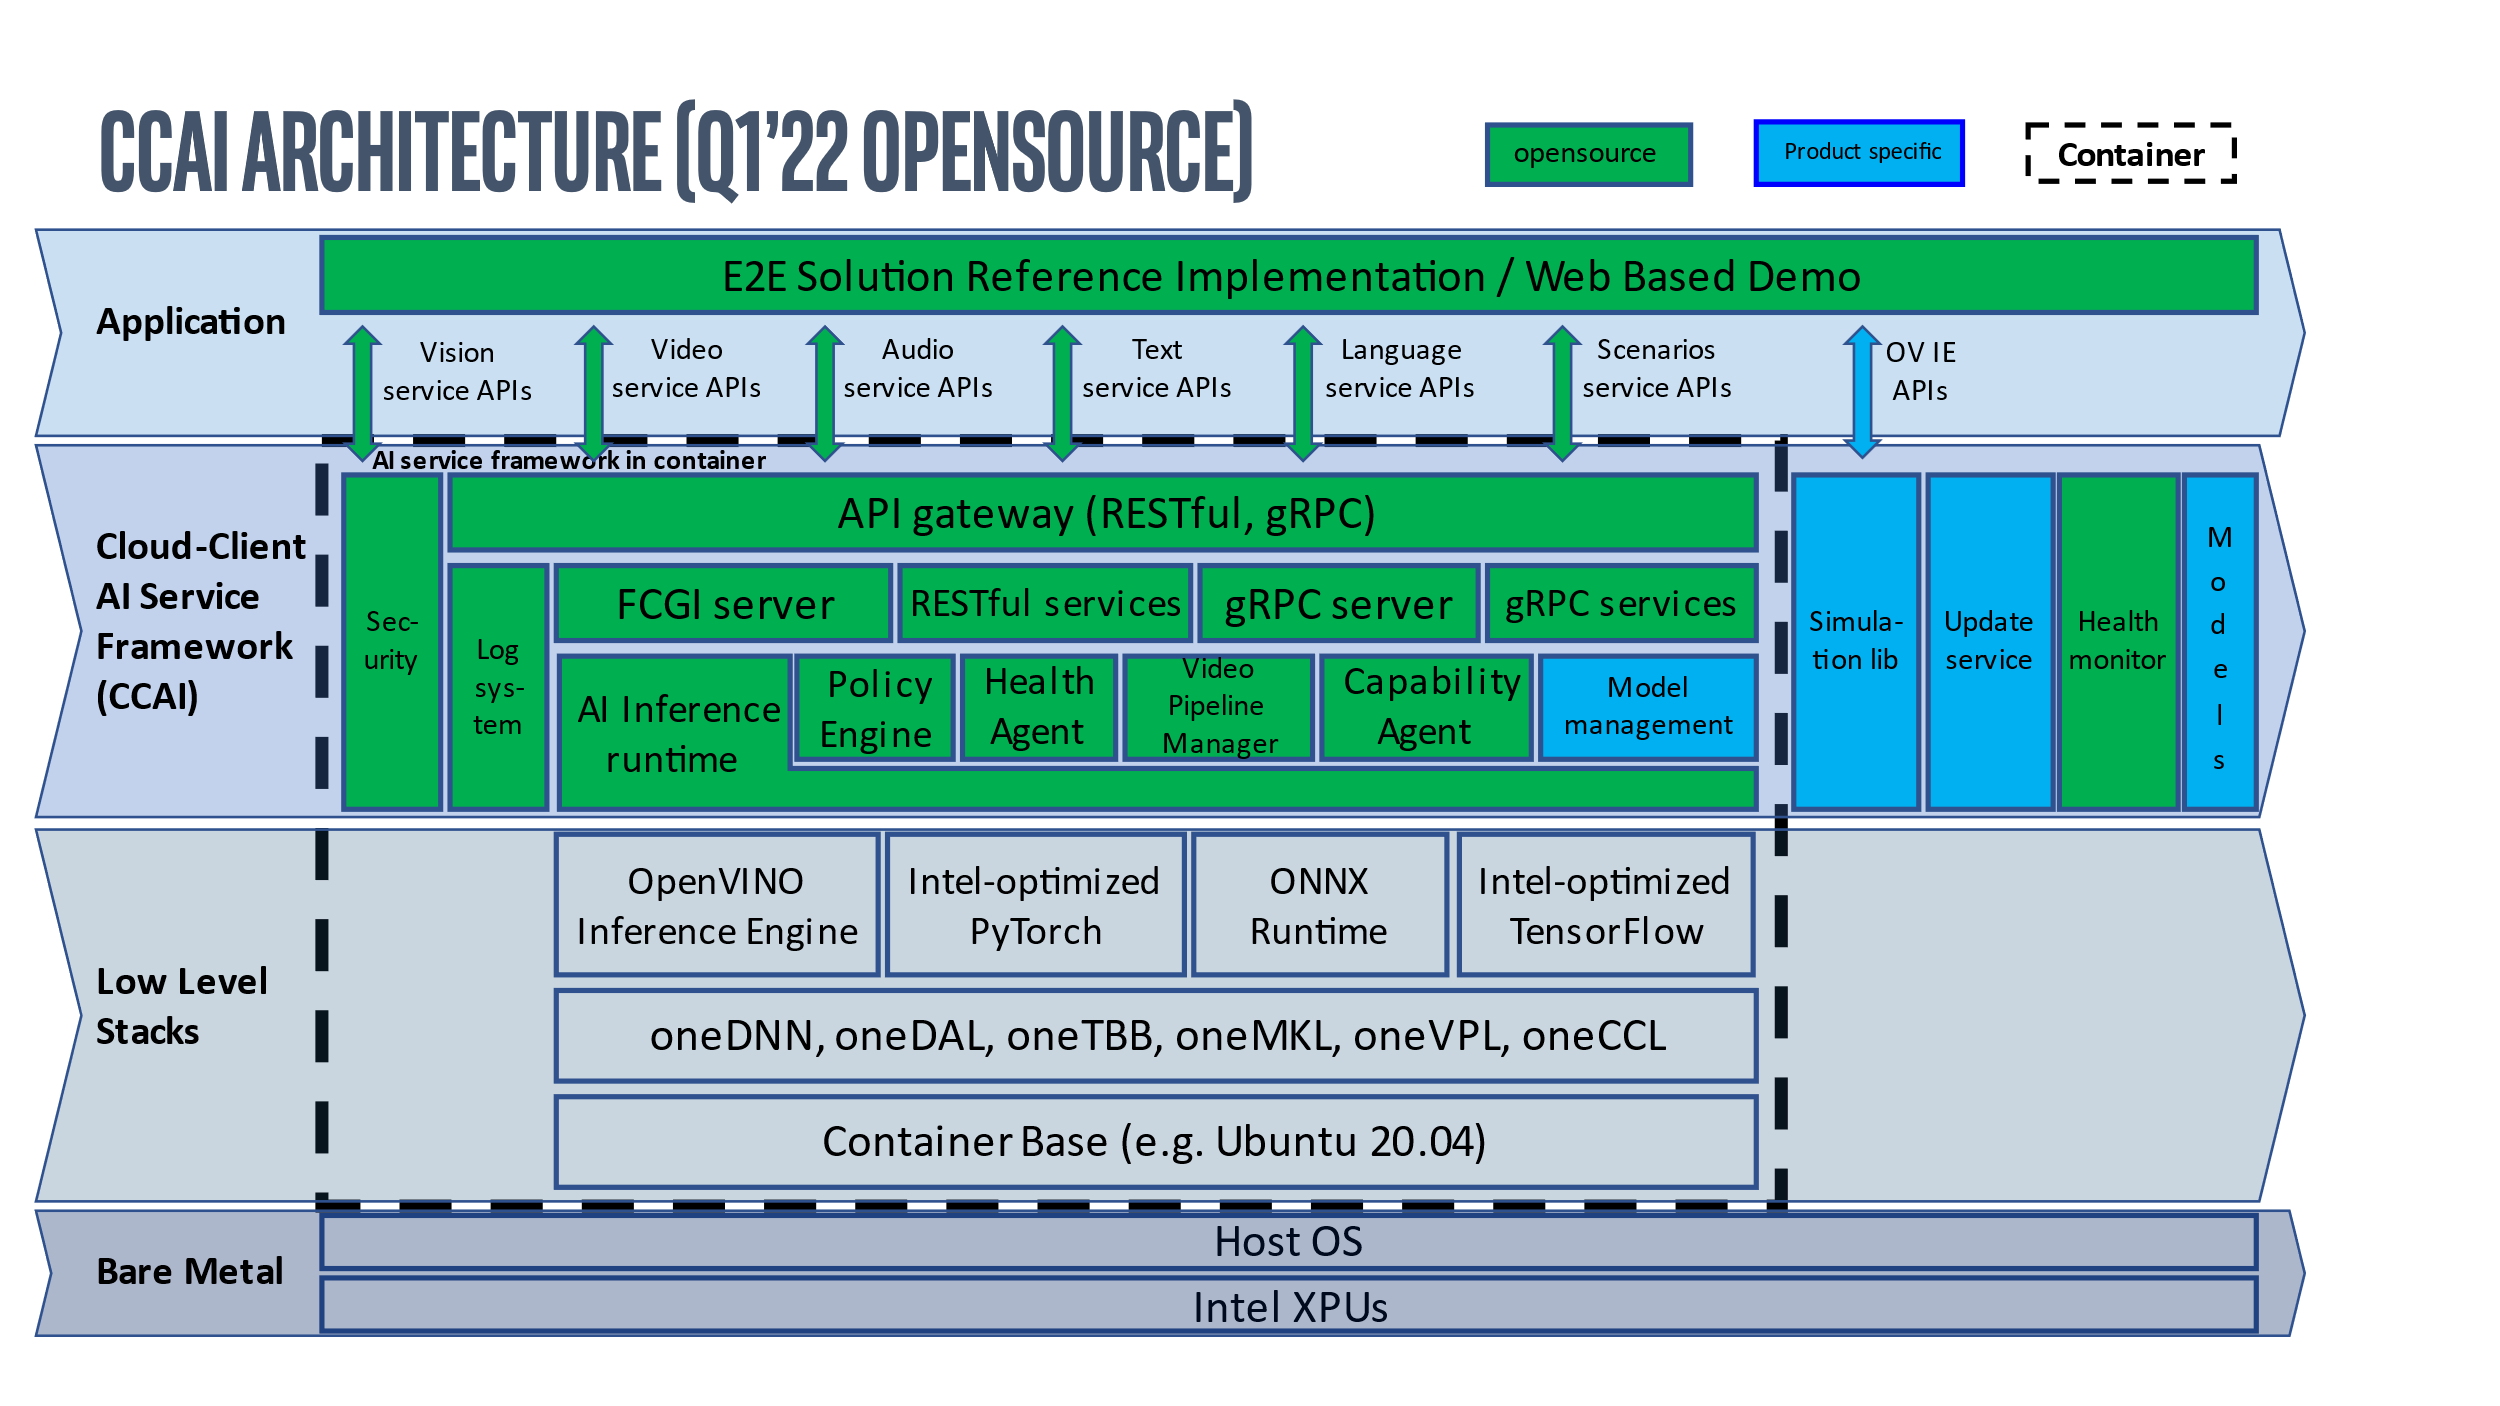
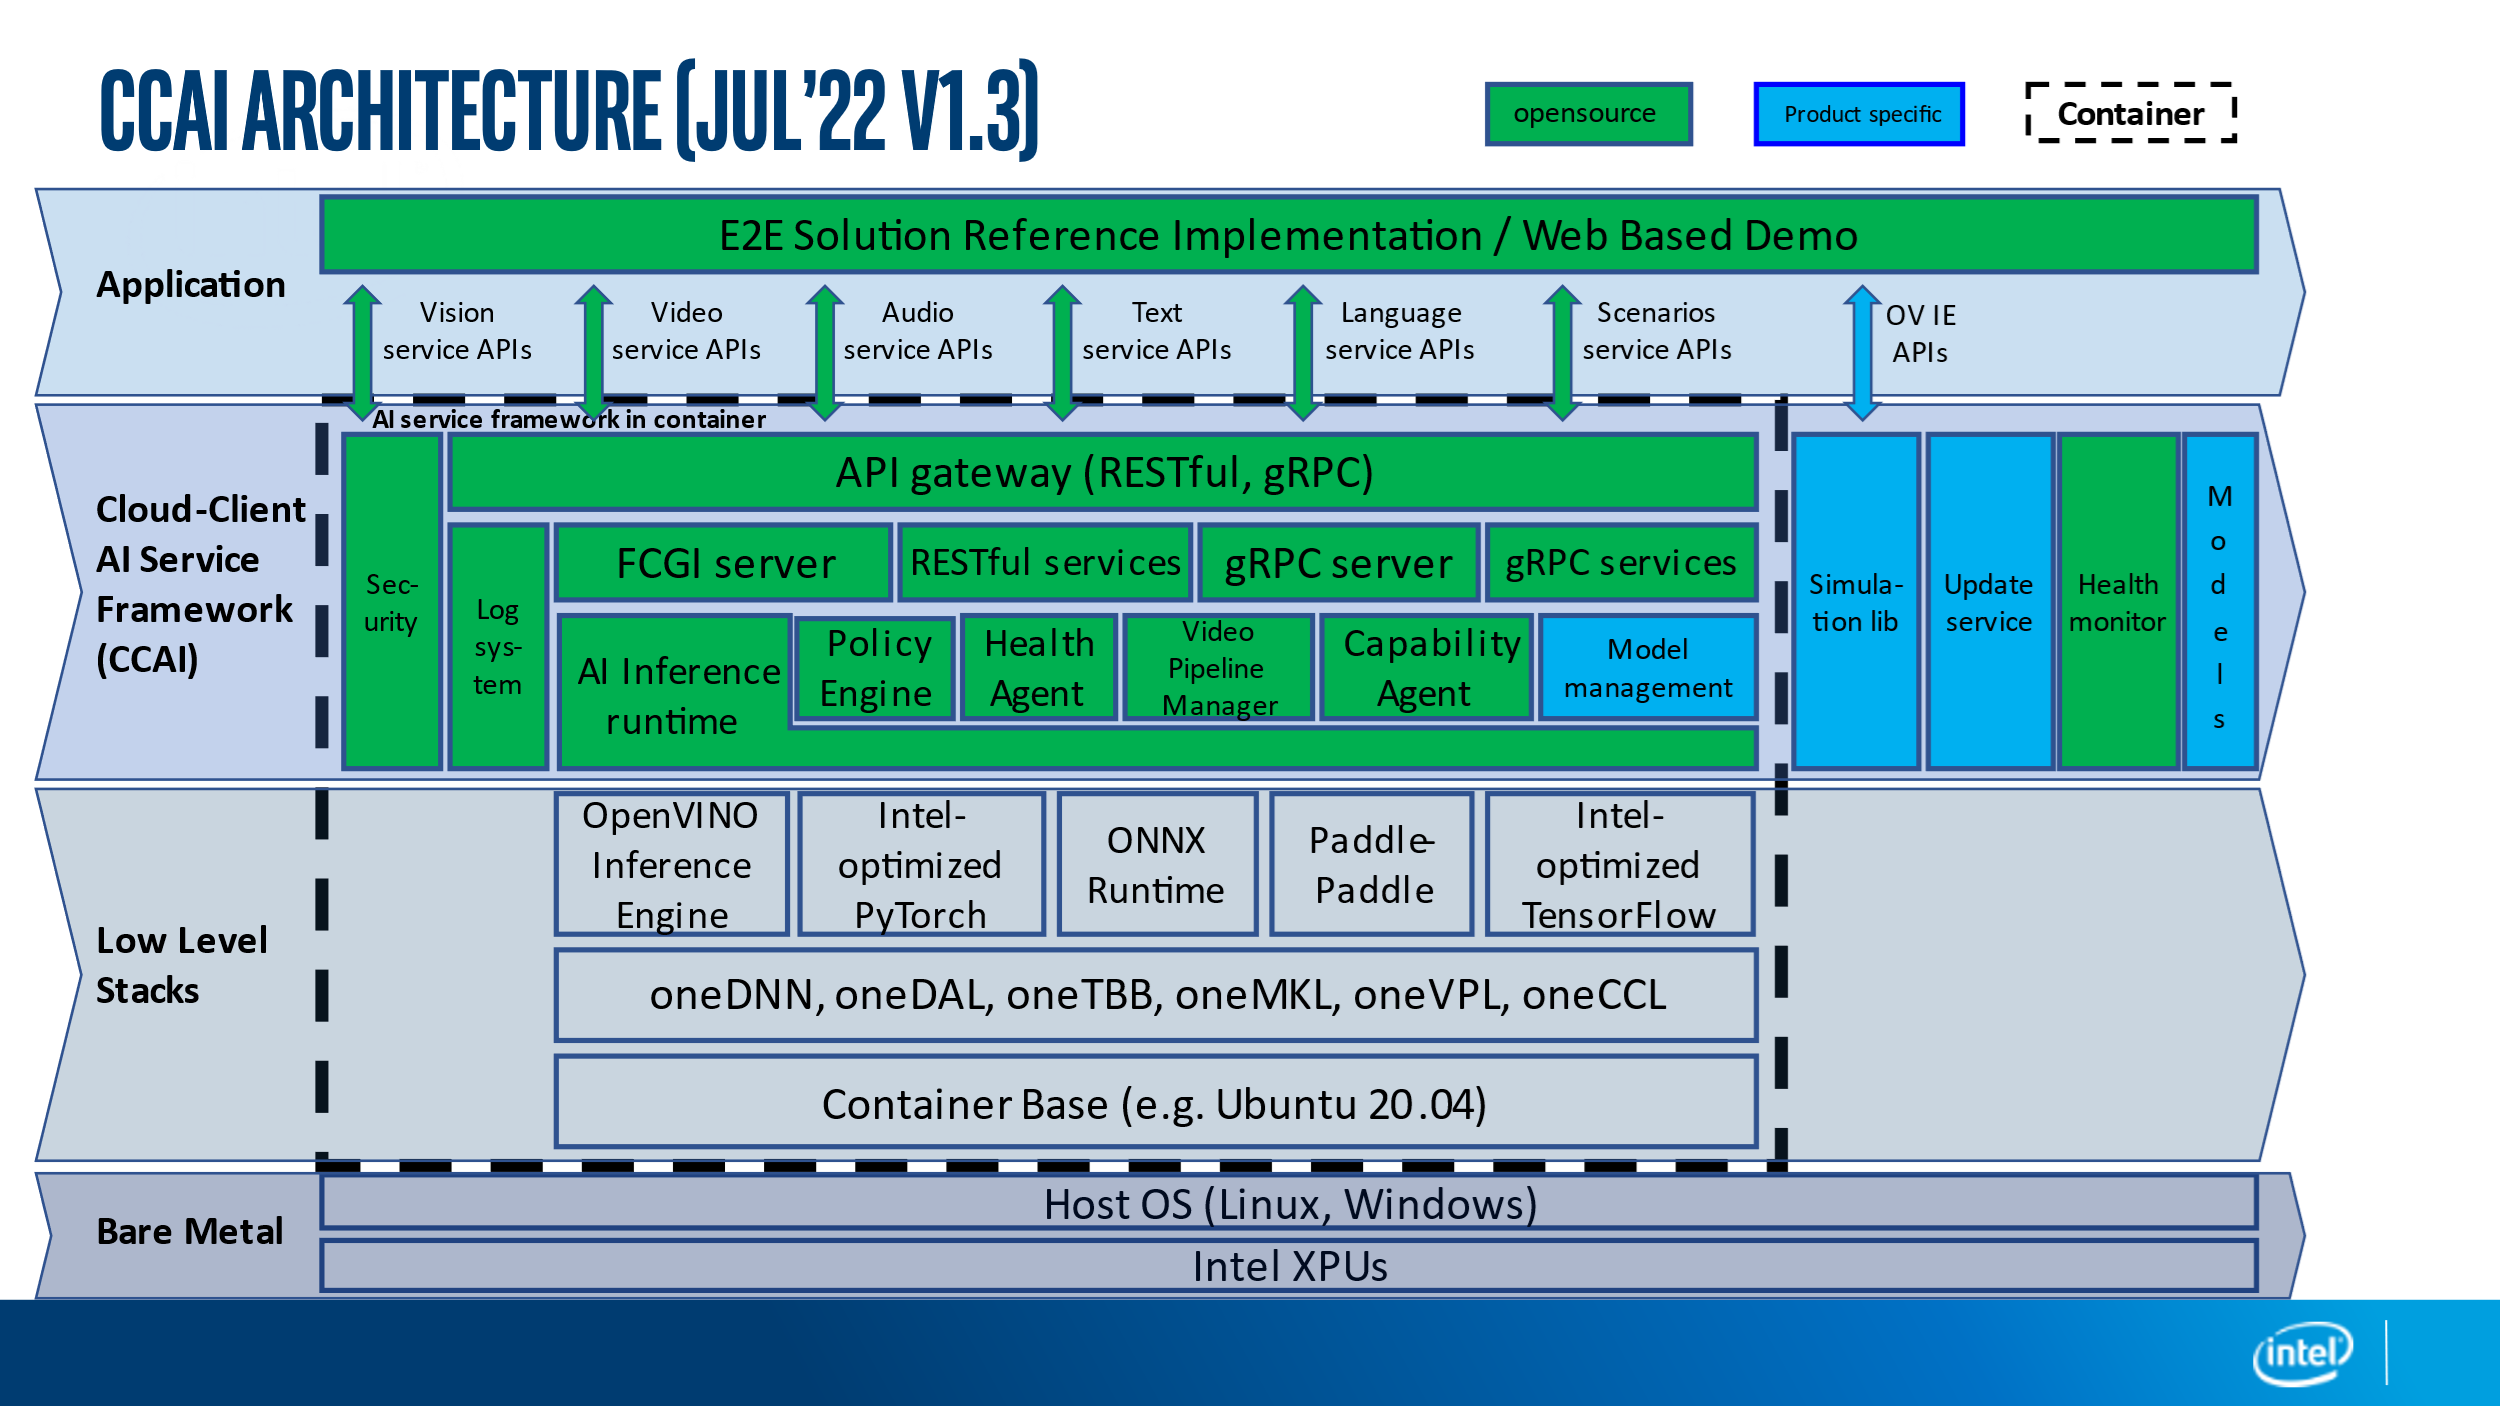
doc: modify 1.2 to 1.3
1, release to 1.3
2, architecture picture to 1.3

diff --git a/doc/src/part2/README.md b/doc/src/part2/README.md
@@ -1,6 +1,6 @@
 # 2. How does CCAI work
 
-## 2.1 The high level call flow of CCAI (1.2 release)
+## 2.1 The high level call flow of CCAI (1.3 release)
 
 The picture below is showing the basic working model of CCAI as a whole services
 provider to provide high level APIs to external users of the services container.
@@ -10,10 +10,10 @@ calling simulation lib APIs (we will talk simulation lib later).
 
 ![](../media/43b3b1739abfe0d7f40411b69429f8a6.png)
 
-## 2.2 CCAI (1.2 release) stack architecture
+## 2.2 CCAI (1.3 release) stack architecture
 
 The architecture picture below is showing those modules and stacks in a high
 level picture, it shows CCAI's components and their dependencies. It is up to
-date for CCAI 1.1 release.
+date for CCAI 1.3 release.
 
 # ![](../media/3c8ba04fc5a1a33ed986de9e32bd04f1.png)
